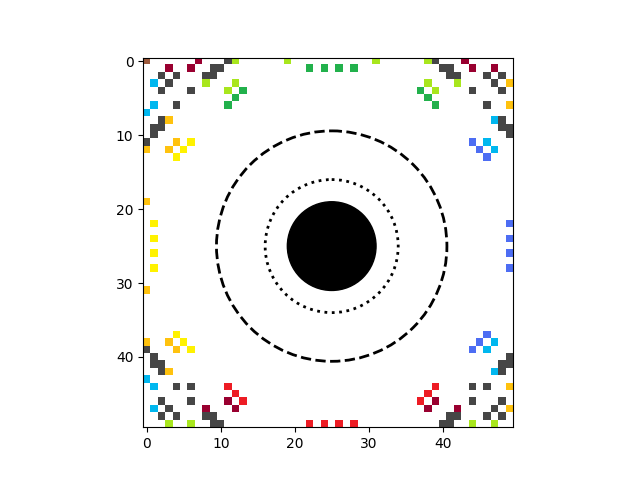
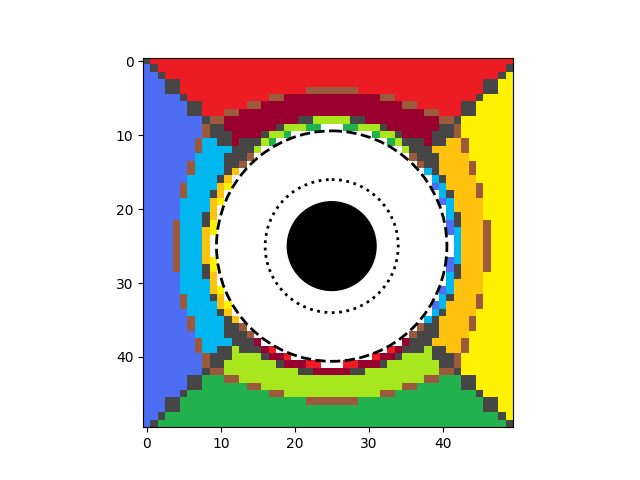
Moved files around

Changed region(s): [[0.2188, 0.125, 0.8125, 0.9062]]

diff --git a/photonTraj.py b/photonTraj.py
@@ -3,76 +3,66 @@ import seaborn as sns
 import matplotlib.pyplot as plt
 from matplotlib import cm # Color maps
 from projFuncs import *
-from processImg import *
-import PIL
-from PIL import Image as Im
 from tqdm import tqdm
 
-### Using geometrized units; c=G=1.
+t = np.linspace(0,0.9,num=200)
+Z = np.zeros(t.shape)
 
-pixel_lengthi = 1 # pixel length for the initial image
-pixel_lengthf = 1 # pixel length for the final image
-x1 = -10 # location of where we observe the final image
-x2 = 1000 # location of the initial image. Keep it a positive number and the final image at a negative location for later parts of this program to work.
-# make SURE that |x2| > |x1| so that using the bounds argument in the integrating function works.
-y_bound = 100
-z_bound = 100
+Bound = 2000
 
-<<<<<<< HEAD
-# set image position(s)
-imageName = "pixil-frame-0.png"
-initialImage = imageTakeInner(imageName)
-=======
-# set up images
-initialImage = imageTakeInner('pixil-frame-0.png')
->>>>>>> main
-y_sizei, z_sizei, x_sizei = initialImage.shape
-y_sizef = 10
-z_sizef = 10
-x_sizef = x_sizei # needs to be the same to transfer the information between the matrices.
-<<<<<<< HEAD
-finalImage = np.zeros(y_sizef, z_sizef, x_sizef, dtype="int")
-=======
-finalImage = np.zeros(np.array([y_sizef, z_sizef, x_sizef]), dtype='int')
->>>>>>> main
+fig = plt.figure()
+ax = fig.add_subplot(111, projection='3d')
+#ax = fig.add_subplot(111)
+ax.set_aspect('equal', adjustable='box')
+ax.axes.set_xlim3d(left=-Bound, right=Bound) 
+ax.axes.set_ylim3d(bottom=-Bound, top=Bound) 
+ax.axes.set_zlim3d(bottom=-Bound, top=Bound) 
+ax.set_xlabel(r'$X$')
+ax.set_ylabel(r'$Y$')
+ax.set_zlabel(r'$Z$')
+# ax.add_patch(plt.Circle((0, 0), 6, color='black')) # Circle in 2d
 
-# intial image position values
-y_positionsi = np.arange(0, y_sizei, 1)
-z_positionsi = np.arange(0, z_sizei, 1)
-y_positionsi = pixel_lengthi*(y_positionsi - y_sizei/2)
-z_positionsi = pixel_lengthi*(z_positionsi - z_sizei/2)
-y_centeri = pixel_lengthi*y_sizei/2
-z_centeri = pixel_lengthi*z_sizei/2
+'''
+for i in range(6):
+    for j in range(6):
+        r = integrate_EOM(np.array([-20, 5*(i-2.5), 5*(j-2.5)]))
+        ax.plot(r[1],r[2],r[3], 'b')
+        #R = integrate_EOM(np.array([-20, 5*(i-2.5), 5*(j-2.5)]),np.array([1, 0, 0], dtype = np.float64), 1)
+        #ax.scatter(R[1],R[2],R[3], color='r', s=4)
+'''
+y_size = 1920
+z_size = 1080
+width = 50
+height = 50
+y_positions = np.arange(0, y_size, 1)
+z_positions = np.arange(0, z_size, 1)
+for i in tqdm(range(int(y_size/2)-int(height/2),int(y_size/2)+int(height/2),1)):
+    for j in range(int(z_size/2)-int(width/2),int(z_size/2)+int(width/2),1):
+        r = integrate_EOM(np.array([-100,i,j]), np.array([1,0,0]),0,np.array([110,y_size + 1,z_size + 1]))
+        ax.plot(r[1],r[2],r[3], color='b')
+
+'''
+r = integrate_EOM(np.array([-10, 10, 10]))
+ax.plot(r[1],r[2],r[3], 'b')
+R = integrate_EOM(np.array([-10, 10, 10]),np.array([1, 0, 0], dtype = np.float64), 1)
+ax.scatter(R[1],R[2],R[3], color='r', s=4)
+'''
+
+# draw sphere
+Radius = 6
+u, v = np.mgrid[0:2*np.pi:20j, 0:np.pi:10j]
+x = Radius*np.cos(u)*np.sin(v)
+y = Radius*np.sin(u)*np.sin(v)
+z = Radius*np.cos(v)
+ax.plot_surface(x, y, z, color="k", alpha = 0.5)
 
 
-# final image position values
-y_positionsf = np.arange(0, y_sizef, 1)
-z_positionsf = np.arange(0, z_sizef, 1)
-y_positionsf = pixel_lengthf*(y_positionsf - y_sizef/2)
-z_positionsf = pixel_lengthf*(z_positionsf - z_sizef/2)
-y_centerf = pixel_lengthf*y_sizef/2
-z_centerf = pixel_lengthf*z_sizef/2
 
-print("Started.")
-<<<<<<< HEAD
-for i in tqdm(range(y_sizef)):
-=======
-for i in range(y_sizef):
->>>>>>> main
-    for j in range(z_sizef):
-        z = z_positionsf[j]
-        y = y_positionsf[i]
-        x = x1
-        vx = 1
-        vy = 0
-        vz = 0
-        u = integrate_EOM(np.array([x,y,z]), np.array([vx,vy,vz]),1,np.array([x2,y_bound + 1,z_bound + 1]))
-        Uu = u[1:,-1,0] # ultimate
-        if ((Uu[0] - x2) >= 0):
-            k,l = findPixel(y_centeri, z_centeri, x2, pixel_lengthi, Uu[:3], Uu[3:])
-            if ((k > -1) and (k < y_sizei) and (l > -1) and (l < z_sizei)):
-                finalImage[i,j,:] = initialImage[k,l,:]
-print("Finished.")
+#fig2 = plt.figure()
+#ax2 = fig2.add_subplot(111)
+#ax2.plot(r[0],np.abs((-(1/(r[0]-1)))-r[1]), color='g')
+# ax = fig.add_subplot(111, projection='3d')
+# ax.plot(50*t,50*t-(0.5*9.8*t**2),Z, color='r')
+# ax.plot(r[1],r[2],r[3], color='b')
 
-plt.imshow(finalImage)
-plt.savefig("Lensed_"+imageName)
+plt.show()

diff --git a/lensing.py b/lensing.py
@@ -1,0 +1,70 @@
+import numpy as np
+import seaborn as sns
+import matplotlib.pyplot as plt
+from matplotlib import cm # Color maps
+from projFuncs import *
+from processImg import *
+import PIL
+from PIL import Image as Im
+from tqdm import tqdm
+
+### Using geometrized units; c=G=1.
+
+pixel_lengthi = 1 # pixel length for the initial image
+pixel_lengthf = 1 # pixel length for the final image
+x1 = -10 # location of where we observe the final image
+x2 = 25 # location of the initial image. Keep it a positive number and the final image at a negative location for later parts of this program to work.
+# make SURE that |x2| > |x1| so that using the bounds argument in the integrating function works.
+y_bound = 100
+z_bound = 100
+
+# set up images
+imageName = "Mini_Epic_Redpilled_Beckstein.png"
+initialImage = imageTakeInner(imageName)
+y_sizei, z_sizei, x_sizei = initialImage.shape
+y_sizef = 100
+z_sizef = 100
+x_sizef = x_sizei # needs to be the same to transfer the information between the matrices.
+finalImage = np.zeros(np.array([y_sizef, z_sizef, x_sizef]), dtype='int')
+
+# intial image position values
+y_positionsi = np.arange(0, y_sizei, 1)
+z_positionsi = np.arange(0, z_sizei, 1)
+y_positionsi = pixel_lengthi*(y_positionsi - y_sizei/2)
+z_positionsi = pixel_lengthi*(z_positionsi - z_sizei/2)
+y_centeri = pixel_lengthi*y_sizei/2
+z_centeri = pixel_lengthi*z_sizei/2
+
+
+# final image position values
+y_positionsf = np.arange(0, y_sizef, 1)
+z_positionsf = np.arange(0, z_sizef, 1)
+y_positionsf = pixel_lengthf*(y_positionsf - y_sizef/2)
+z_positionsf = pixel_lengthf*(z_positionsf - z_sizef/2)
+y_centerf = pixel_lengthf*y_sizef/2
+z_centerf = pixel_lengthf*z_sizef/2
+
+print("Started.")
+for i in tqdm(range(y_sizef)):
+    for j in range(z_sizef):
+        z = z_positionsf[j]
+        y = y_positionsf[i]
+        x = x1
+        vx = 1
+        vy = 0
+        vz = 0
+        u = integrate_EOM(np.array([x,y,z]), np.array([vx,vy,vz]),1,np.array([x2,y_bound + 1,z_bound + 1]))
+        Uu = u[1:,-1,0] # ultimate
+        if ((Uu[0] - x2) >= 0):
+            k,l = findPixel(y_centeri, z_centeri, x2, pixel_lengthi, Uu[:3], Uu[3:])
+            if ((k > -1) and (k < y_sizei) and (l > -1) and (l < z_sizei)):
+                finalImage[i,j,:] = initialImage[k,l,:]
+print("Finished.")
+
+fig,ax = plt.subplots(1)
+ax = plt.gca()
+ax.imshow(finalImage)
+ax.add_patch(plt.Circle((z_sizef/2,y_sizef/2), Rs, color='black'))
+ax.add_patch(plt.Circle((z_sizef/2,y_sizef/2), 1.5*Rs, color='black', fill=False, linewidth=2.0, linestyle=':'))
+ax.add_patch(plt.Circle((z_sizef/2,y_sizef/2), 2.598*Rs, color='black', fill=False, linewidth=2.0, linestyle='--'))
+plt.savefig("Lensed_"+imageName)

diff --git a/inputVariables.py b/inputVariables.py
@@ -10,5 +10,5 @@ Mass                   3.9239e44 m (=8.54e36 kg) Mass of Sagittarius A*. Note: Y
 # Default Values
 c = 1 # Speed of light
 G = 1 # Gravitational constant
-M = 3 #3.9239e44 # Mass of black hole [SET TO 3 FOR DEBUGGING]
+M = 4.5 #3.9239e44 # Mass of black hole [SET TO 3 FOR DEBUGGING]
 Rs = 2*M # Schwarzschild Radius
